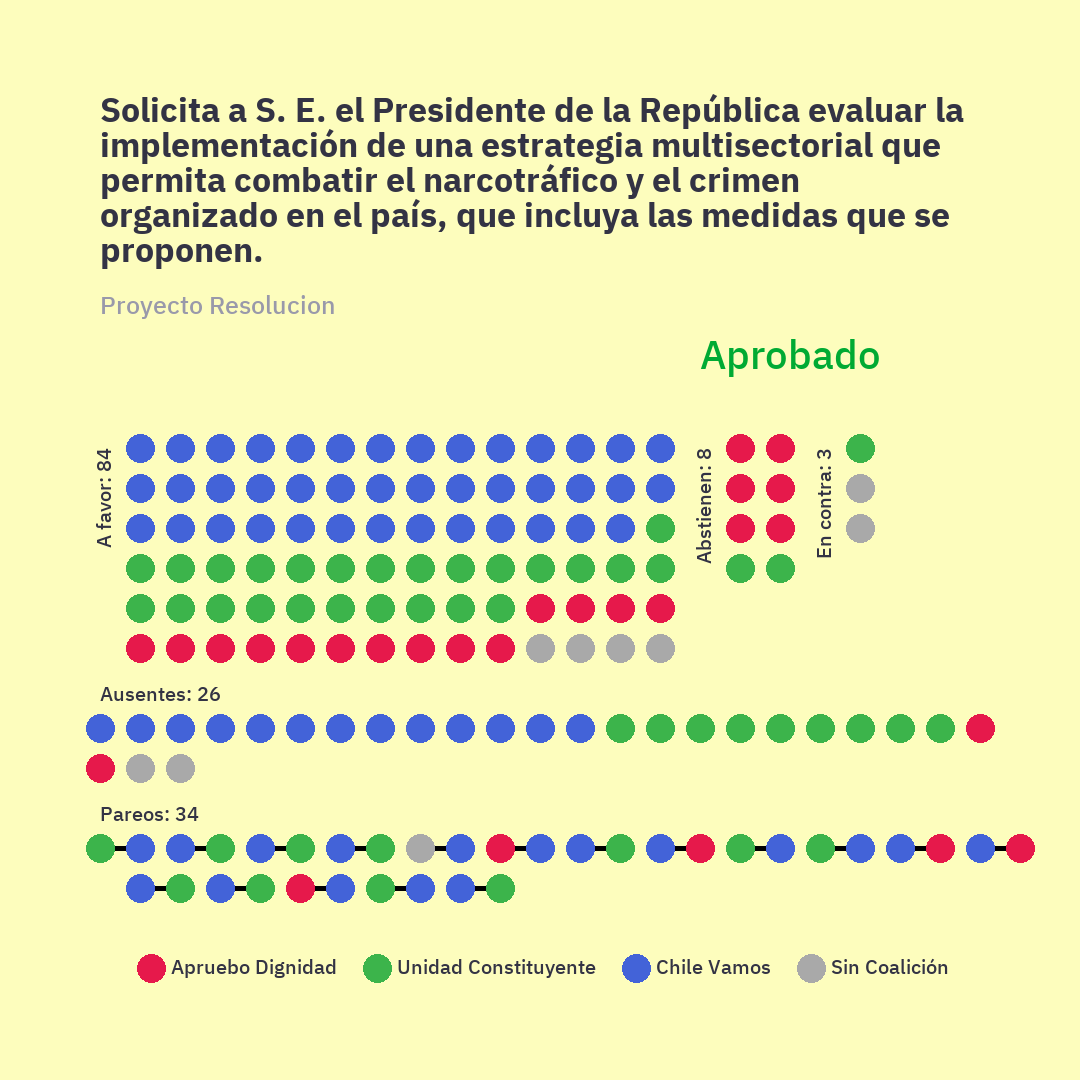
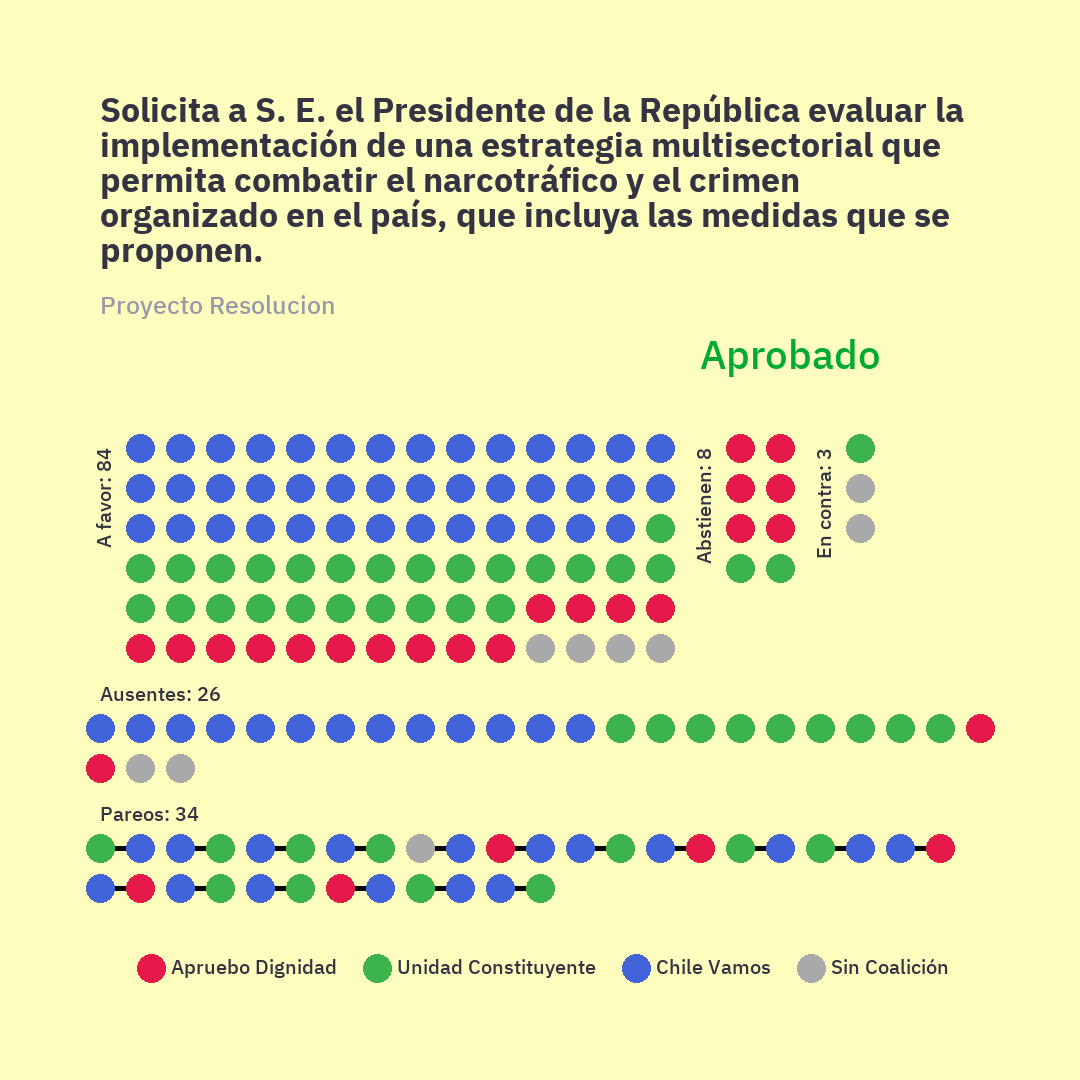
:bug: Arregla despligue de pareos en grillas con columnas impares

Changed region(s): [[0.0611, 0.7944, 0.5194, 0.8556], [0.8861, 0.7639, 0.9778, 0.7944]]

diff --git a/utils/osx.py b/utils/osx.py
@@ -13,6 +13,7 @@ def get_save_votids():
     path_data = f'{this_file()}/draw/data/diputados'
     filenames = os.listdir(path_data)
     votids = [filename.split('.')[0] for filename in filenames if filename.split('.')[0]]
+    votids.sort()
     return votids
 
 def get_gen_votids():
@@ -21,6 +22,7 @@ def get_gen_votids():
     names = [filename.split('.')[0] for filename in filenames if filename.split('.')[0]]
     names = filter(lambda name: name.split('_')[1] == "partidos", names)
     votids = [name.split('_')[0] for name in names]
+    votids.sort()
     return votids
 
 def create_file(path):

diff --git a/draw/maker.py b/draw/maker.py
@@ -116,8 +116,8 @@ def draw_pareos(draw, iniX, iniY, pareos, cols, grupos):
     iniY = iniY + R
     d = 0
     for grupo1, grupo2 in pareos:
-        i = d %  cols
-        j = d // cols
+        i = d %  (cols if cols%2==2 else cols-1)
+        j = d // (cols if cols%2==2 else cols-1)
         x = iniX + i*R*2
         y = iniY + j*R*2
         draw.line([(x,y), (x+2*R, y)], fill='#000000', width=5)

diff --git a/main.py b/main.py
@@ -84,3 +84,13 @@ class Bot:
 if __name__ == "__main__":
     bot = Bot()
     bot.run()
+    
+    exit()
+
+    votids = osx.get_gen_votids()
+    for votid in votids:
+        print(votid)
+        paths = bot.procesar_votid(votid, tweet=False)
+        for p in paths:
+            print(p)
+        print()
